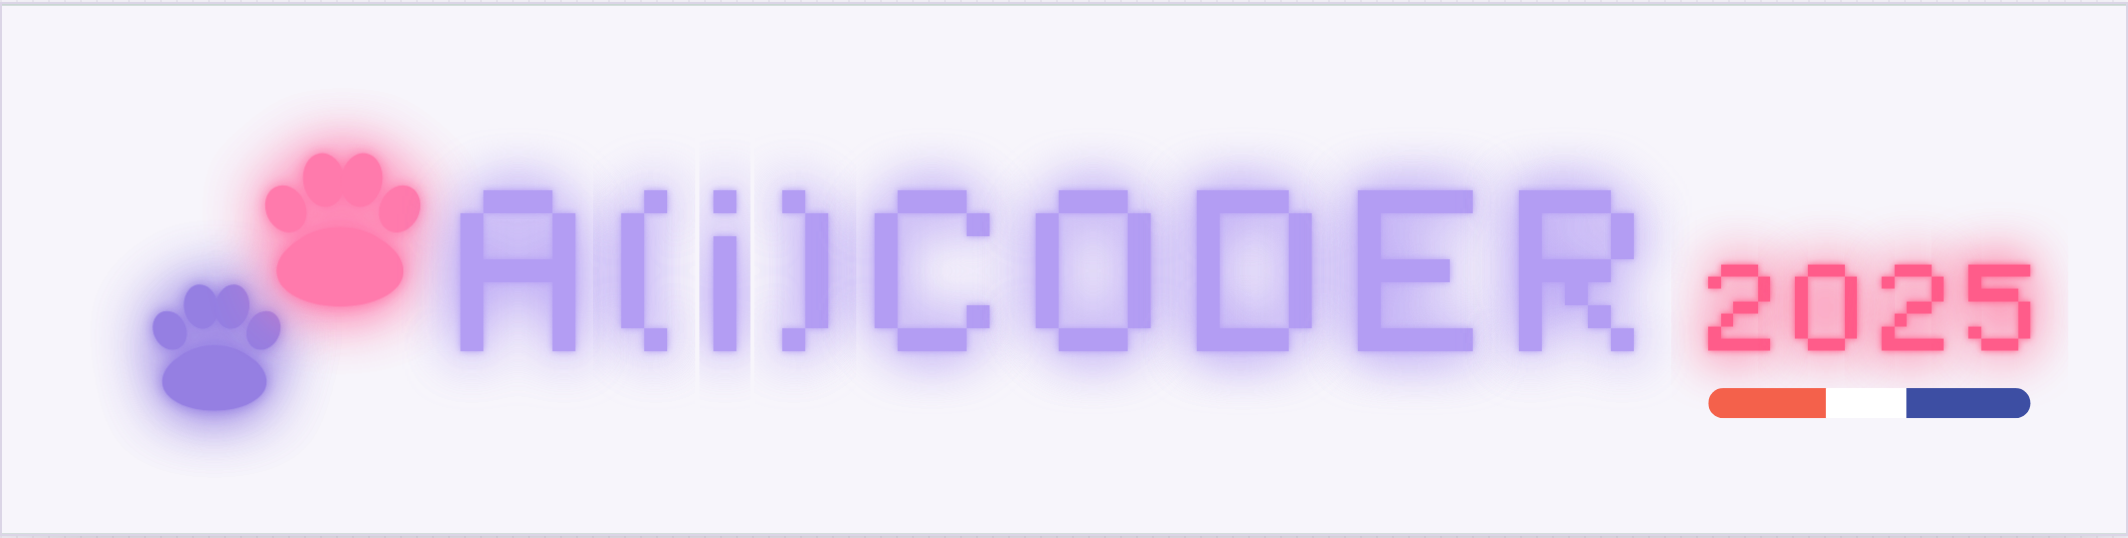
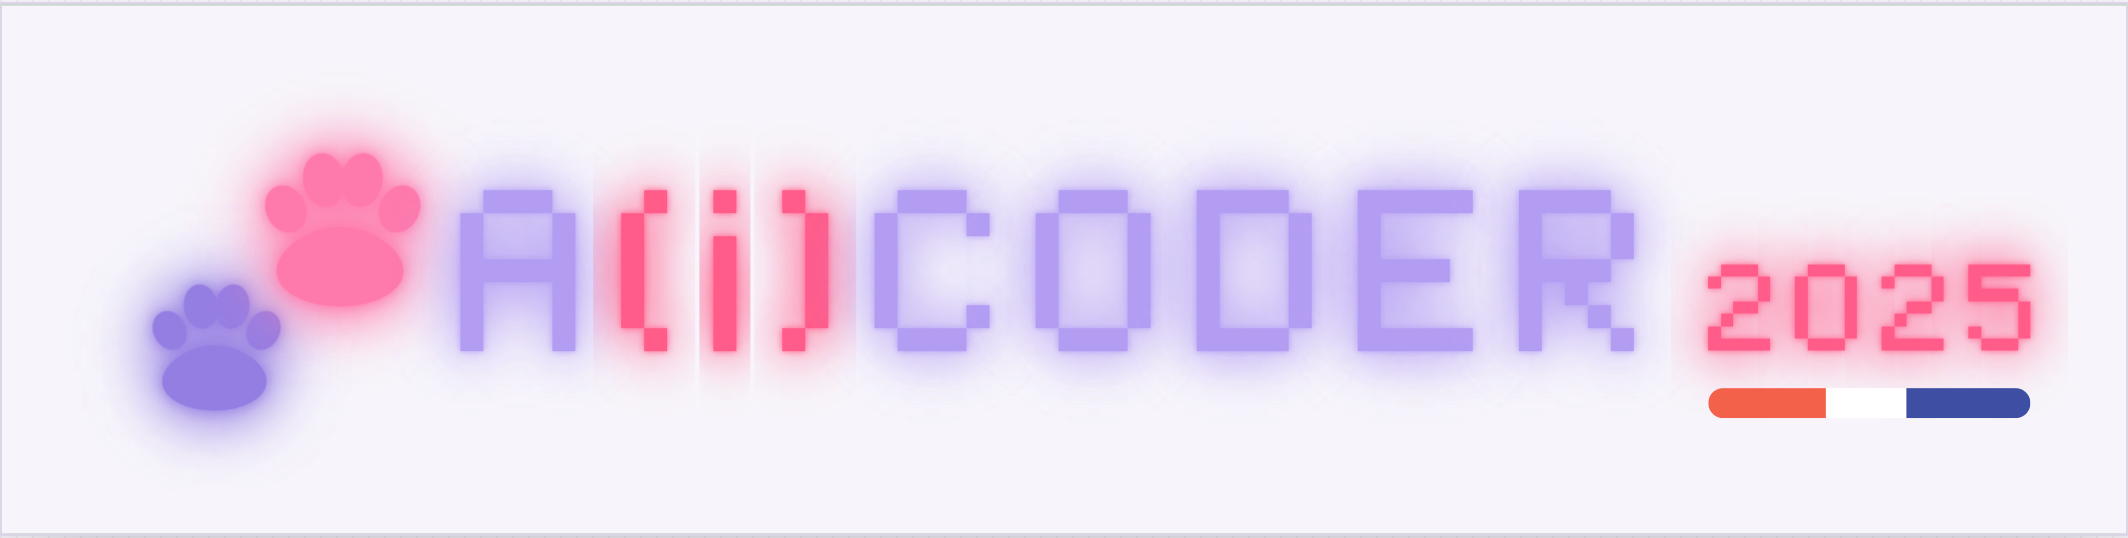
Accent (i) in the year colour so the AI pun reads in colour too
WORDMARK letters previously rendered as a single violet run, so "A(i)CODER"
read the AI pun only through punctuation. ACCENT_IDX now reads the "(i)"
span straight off WORDMARK's own bracket positions and wordmarkTubes swaps
just the core layer to the year colour (--sc-pink on D1, --sc-pink-hot on
D2) for those glyphs — ghosts keep their own hue, so D2's misconvergence
look is unchanged. Derived from WORDMARK rather than hardcoded indices, so
it survives a rename and no-ops cleanly if the brackets are ever dropped.

Rebuilt aicoder-mockups.html and all 6 exports/*.svg + the D1/D2 PNGs from
the updated template. verify.mjs: 18/19 checks pass; the one failure ("SVG
animates inside an <img>") also fails against the unmodified upstream code
in this environment (no Playwright Chromium cached here, substituted system
Microsoft Edge via channel:"msedge") — confirmed pre-existing, not a
regression from this change. d3-street-sticker.png is untouched: D3 doesn't
route through wordmarkTubes.

Changed region(s): [[0.2791, 0.3271, 0.4032, 0.684]]

diff --git a/branding/aicoder-mockups.html b/branding/aicoder-mockups.html
@@ -886,6 +886,16 @@ const YEARMARK = "2025";
 const UNIT_WORD = wordmarkWidth(WORDMARK, 1);
 const UNIT_YEAR = wordmarkWidth(YEARMARK, 1);
 
+/* Indices of the "(i)" span inside WORDMARK, so the AI pun reads in
+   colour as well as punctuation. Derived from the brackets rather than
+   hardcoded, so it keeps working if WORDMARK is ever edited. Empty when
+   there is no bracket pair — accenting then silently no-ops. */
+const ACCENT_IDX = (() => {
+  const open = WORDMARK.indexOf("("), close = WORDMARK.indexOf(")");
+  if (open < 0 || close < open) return [];
+  return Array.from({ length: close - open + 1 }, (_, k) => open + k);
+})();
+
 function lockupGeometry(W, H) {
   const px   = Math.max(2, Math.floor((W * 0.58) / UNIT_WORD));
   const yrPx = Math.max(1, Math.round(px / 2));
@@ -922,7 +932,7 @@ function pawCluster(H, trail, lead) {
 function wordmarkTubes(text, opts = {}) {
   const {
     px = 12, tracking = 2, x = 0, y = 0, filterId = null, seed = 0,
-    layers = [{ fill: "#000" }]
+    layers = [{ fill: "#000" }], accent = [], accentFill = null
   } = opts;
   /* Case matters — the lowercase i is its own 1-unit glyph — and the
      advance is per glyph, so this walks a cursor rather than multiplying
@@ -934,8 +944,13 @@ function wordmarkTubes(text, opts = {}) {
     cursor += glyphWidth(ch) + tracking;
     if (!glyphOf(ch)) return "";
     /* Every layer of a glyph — core plus any ghost — goes inside the same
-       tube, so a dropout takes the whole letter with it. */
-    const art = layers.map(l => wordmark(ch, {
+       tube, so a dropout takes the whole letter with it. Accenting only
+       ever swaps the core (last) layer — a ghost, where one exists, stays
+       on its own hue so the misconvergence read doesn't change. */
+    const useLayers = (accentFill && accent.includes(i))
+      ? layers.map((l, li) => li === layers.length - 1 ? { ...l, fill: accentFill } : l)
+      : layers;
+    const art = useLayers.map(l => wordmark(ch, {
       px, tracking, fill: l.fill, x: xo + (l.dx || 0), y, attrs: l.attrs || ""
     })).join("");
     return tube(seed + i, art, filterId);
@@ -1052,7 +1067,7 @@ function lockupInner(mode, groundKind, W, H, standalone = false) {
     <defs>${gr.defs}${bloomDef(bloom, ...bl(m.bloom))}${bloomDef(pawB, ...bl(m.pawBloom))}</defs>
     ${gr.back}
     <g opacity="${m.pawOpacity}">${tube(20, trail, pawB)}${tube(21, lead, pawB)}</g>
-    ${wordmarkTubes(WORDMARK, { px: g.px, x: g.wmX, y: g.wmY, filterId: bloom, seed: 0, layers })}
+    ${wordmarkTubes(WORDMARK, { px: g.px, x: g.wmX, y: g.wmY, filterId: bloom, seed: 0, layers, accent: ACCENT_IDX, accentFill: m.year })}
     ${wordmarkTubes(YEARMARK, { px: g.yrPx, x: g.yrX, y: g.yrY, filterId: bloom, seed: 30, layers: [{ fill: m.year }] })}
     <g class="tube-b" style="${tubeVars(40)}">${bar({ x: g.yrX, y: g.barY, w: g.yrW, h: g.barH, white: m.barWhite })}</g>
     ${gr.front}

diff --git a/branding/src/mockups.template.html b/branding/src/mockups.template.html
@@ -886,6 +886,16 @@ const YEARMARK = "2025";
 const UNIT_WORD = wordmarkWidth(WORDMARK, 1);
 const UNIT_YEAR = wordmarkWidth(YEARMARK, 1);
 
+/* Indices of the "(i)" span inside WORDMARK, so the AI pun reads in
+   colour as well as punctuation. Derived from the brackets rather than
+   hardcoded, so it keeps working if WORDMARK is ever edited. Empty when
+   there is no bracket pair — accenting then silently no-ops. */
+const ACCENT_IDX = (() => {
+  const open = WORDMARK.indexOf("("), close = WORDMARK.indexOf(")");
+  if (open < 0 || close < open) return [];
+  return Array.from({ length: close - open + 1 }, (_, k) => open + k);
+})();
+
 function lockupGeometry(W, H) {
   const px   = Math.max(2, Math.floor((W * 0.58) / UNIT_WORD));
   const yrPx = Math.max(1, Math.round(px / 2));
@@ -922,7 +932,7 @@ function pawCluster(H, trail, lead) {
 function wordmarkTubes(text, opts = {}) {
   const {
     px = 12, tracking = 2, x = 0, y = 0, filterId = null, seed = 0,
-    layers = [{ fill: "#000" }]
+    layers = [{ fill: "#000" }], accent = [], accentFill = null
   } = opts;
   /* Case matters — the lowercase i is its own 1-unit glyph — and the
      advance is per glyph, so this walks a cursor rather than multiplying
@@ -934,8 +944,13 @@ function wordmarkTubes(text, opts = {}) {
     cursor += glyphWidth(ch) + tracking;
     if (!glyphOf(ch)) return "";
     /* Every layer of a glyph — core plus any ghost — goes inside the same
-       tube, so a dropout takes the whole letter with it. */
-    const art = layers.map(l => wordmark(ch, {
+       tube, so a dropout takes the whole letter with it. Accenting only
+       ever swaps the core (last) layer — a ghost, where one exists, stays
+       on its own hue so the misconvergence read doesn't change. */
+    const useLayers = (accentFill && accent.includes(i))
+      ? layers.map((l, li) => li === layers.length - 1 ? { ...l, fill: accentFill } : l)
+      : layers;
+    const art = useLayers.map(l => wordmark(ch, {
       px, tracking, fill: l.fill, x: xo + (l.dx || 0), y, attrs: l.attrs || ""
     })).join("");
     return tube(seed + i, art, filterId);
@@ -1052,7 +1067,7 @@ function lockupInner(mode, groundKind, W, H, standalone = false) {
     <defs>${gr.defs}${bloomDef(bloom, ...bl(m.bloom))}${bloomDef(pawB, ...bl(m.pawBloom))}</defs>
     ${gr.back}
     <g opacity="${m.pawOpacity}">${tube(20, trail, pawB)}${tube(21, lead, pawB)}</g>
-    ${wordmarkTubes(WORDMARK, { px: g.px, x: g.wmX, y: g.wmY, filterId: bloom, seed: 0, layers })}
+    ${wordmarkTubes(WORDMARK, { px: g.px, x: g.wmX, y: g.wmY, filterId: bloom, seed: 0, layers, accent: ACCENT_IDX, accentFill: m.year })}
     ${wordmarkTubes(YEARMARK, { px: g.yrPx, x: g.yrX, y: g.yrY, filterId: bloom, seed: 30, layers: [{ fill: m.year }] })}
     <g class="tube-b" style="${tubeVars(40)}">${bar({ x: g.yrX, y: g.barY, w: g.yrW, h: g.barH, white: m.barWhite })}</g>
     ${gr.front}

diff --git a/branding/README.md b/branding/README.md
@@ -164,6 +164,14 @@ Brand colours are fixed — they never respond to the viewer's light/dark settin
 Tricolour bar segment ratios, left to right: **0.365 / 0.25 / 0.385**, on a full
 round cap (`rx = height / 2`).
 
+**`(i)` is accented in the year colour** (`--sc-pink` on D1, `--sc-pink-hot` on
+D2) instead of the wordmark violet, so the *AI* reading lands in colour, not
+just punctuation. `ACCENT_IDX` reads the span off `WORDMARK`'s own bracket
+positions — `indexOf("(")` to `indexOf(")")` inclusive — so it keeps working
+if the name changes, and costs nothing to disable (a `WORDMARK` with no
+brackets no-ops it). Only the core layer swaps colour; D2's ghost stays on its
+own hue so the misconvergence read doesn't change.
+
 ---
 
 ## The wordmark is drawn, not typed
